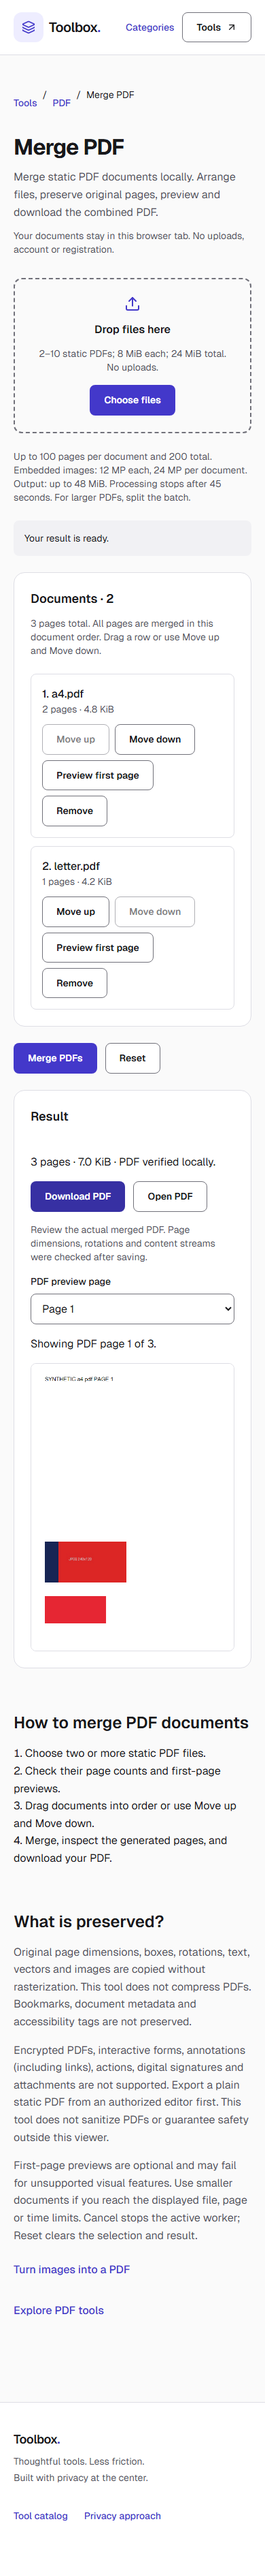
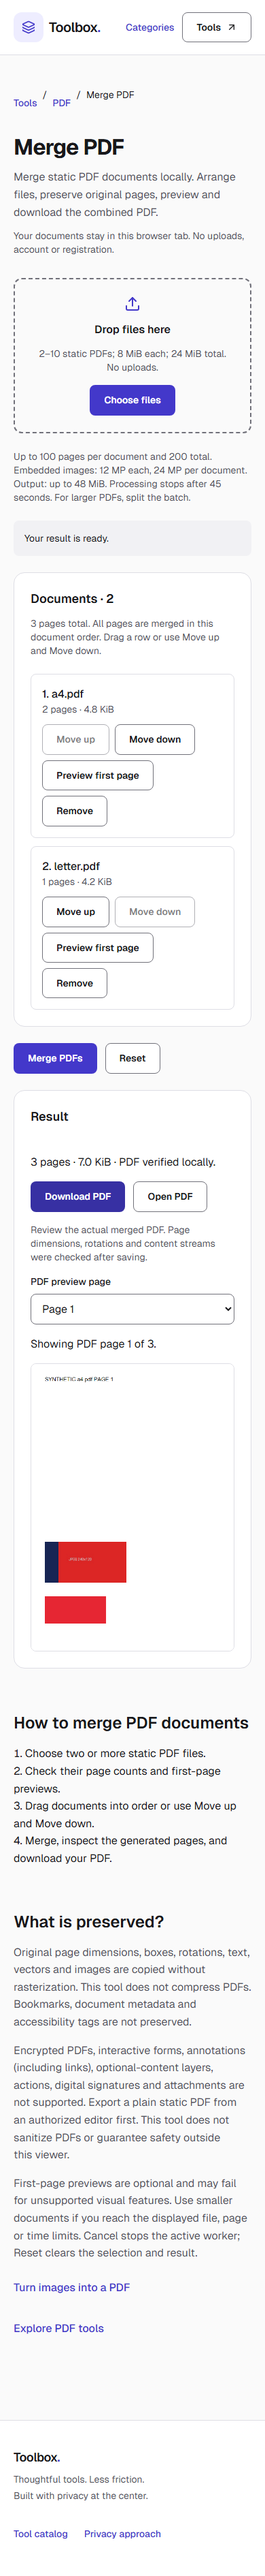
fix: preserve TBX-005 fidelity and stabilize browser checks

diff --git a/apps/web/e2e/merge-pdf.spec.ts b/apps/web/e2e/merge-pdf.spec.ts
@@ -13,6 +13,7 @@ async function select(page: Page, names: string[]) {
   ).toBeVisible();
 }
 async function output(page: Page, info: TestInfo, name: string) {
+  await page.getByRole("button", { name: "Merge PDFs", exact: true }).focus();
   await page.getByRole("button", { name: "Merge PDFs", exact: true }).click();
   await expect(page.getByRole("link", { name: "Download PDF", exact: true })).toBeVisible();
   await expect(page.getByText(/^Showing PDF page 1 of/)).toBeVisible();
@@ -138,6 +139,7 @@ test("invalid, encrypted, active and resource-limited PDFs preserve the valid se
     "link.pdf",
     "form.pdf",
     "launch.pdf",
+    "layers.pdf",
     "large-number.pdf",
     "too-many-pages.pdf",
     "empty-pages.pdf",
@@ -250,13 +252,15 @@ test("desktop/mobile screens, real preview and touch-sized controls", async ({ p
   expect(errors).toEqual([]);
 });
 test("hung worker times out and is terminated with a recoverable error", async ({ page }) => {
-  await page.clock.install();
+  await page.clock.install({ time: new Date("2030-01-01T00:00:00Z") });
   await page.addInitScript(() => {
     const NativeWorker = Worker;
     let terminated = 0;
+    let started = 0;
     window.Worker = class extends NativeWorker {
       override postMessage() {
         /* Fault injection: a worker never answers. */
+        started++;
       }
       override terminate() {
         terminated++;
@@ -264,14 +268,24 @@ test("hung worker times out and is terminated with a recoverable error", async (
       }
     };
     Object.defineProperty(window, "terminatedWorkers", { get: () => terminated });
+    Object.defineProperty(window, "startedWorkers", { get: () => started });
   });
   await page.goto(toolUrl);
+  await page.waitForLoadState("networkidle");
+  await page.clock.pauseAt(new Date("2030-01-01T00:01:00Z"));
   await page.getByLabel("Choose PDFs", { exact: true }).setInputFiles(fixture("letter.pdf"));
+  await expect.poll(() => page.evaluate(() => Reflect.get(window, "startedWorkers"))).toBe(1);
+  await page.clock.runFor(44_999);
   await expect(page.getByText("Checking files…", { exact: true })).toBeVisible();
-  await page.clock.fastForward(45_000);
-  await expect(page.getByRole("main").getByRole("alert")).toContainText("processing time");
+  await expect(page.getByRole("main").getByRole("alert")).toHaveCount(0);
+  expect(await page.evaluate(() => Reflect.get(window, "terminatedWorkers"))).toBe(0);
+  await page.clock.runFor(1);
   expect(await page.evaluate(() => Reflect.get(window, "terminatedWorkers"))).toBe(1);
-  await page.getByRole("button", { name: "Reset", exact: true }).click();
+  // Advance one render frame after asserting termination at the exact deadline.
+  await page.clock.runFor(16);
+  await expect(page.getByRole("main").getByRole("alert")).toContainText("processing time");
+  await page.getByRole("button", { name: "Reset", exact: true }).press("Enter");
+  await page.clock.runFor(16);
   await expect(page.getByRole("heading", { name: "No PDFs selected", exact: true })).toBeVisible();
 });
 test("benchmarks real input/output at three sizes", async ({ page }, info) => {

diff --git a/apps/web/app/tools/merge-pdf/merge-page.tsx b/apps/web/app/tools/merge-pdf/merge-page.tsx
@@ -48,9 +48,10 @@ export function MergePage({ tool }: { tool: ToolDefinition }) {
           accessibility tags are not preserved.
         </p>
         <p className="text-muted-foreground">
-          Encrypted PDFs, interactive forms, annotations (including links), actions, digital
-          signatures and attachments are not supported. Export a plain static PDF from an authorized
-          editor first. This tool does not sanitize PDFs or guarantee safety outside this viewer.
+          Encrypted PDFs, interactive forms, annotations (including links), optional-content layers,
+          actions, digital signatures and attachments are not supported. Export a plain static PDF
+          from an authorized editor first. This tool does not sanitize PDFs or guarantee safety
+          outside this viewer.
         </p>
         <p className="text-muted-foreground">
           First-page previews are optional and may fail for unsupported visual features. Use smaller

diff --git a/packages/core/src/merge-pdf.ts b/packages/core/src/merge-pdf.ts
@@ -27,7 +27,7 @@ const messages: Record<PdfMergeErrorCode, string> = {
   DOCUMENT_PROTECTED:
     "Encrypted PDFs are not supported. Export an unprotected copy using an authorized PDF editor.",
   UNSUPPORTED_FEATURE:
-    "This PDF contains forms, annotations, actions or attachments. Export a plain static PDF first. Signed PDFs are not supported.",
+    "This PDF contains forms, annotations, layers, actions or attachments. Export a plain static PDF first. Signed PDFs are not supported.",
   RESOURCE_LIMIT:
     "This selection exceeds the limits or processing time. Use smaller PDFs or split the batch.",
   CANCELLED: "Operation cancelled. Your selected documents are still available.",

diff --git a/packages/browser-engines/src/merge-pdf.ts b/packages/browser-engines/src/merge-pdf.ts
@@ -34,6 +34,7 @@ const blockedKeys = new Set([
   "RichMediaContent",
   "Collection",
   "ByteRange",
+  "OCProperties",
 ]);
 const blockedNames = new Set([
   "JavaScript",
@@ -51,6 +52,8 @@ const blockedNames = new Set([
   "Filespec",
   "Sig",
   "Action",
+  "OCG",
+  "OCMD",
 ]);
 async function inspectStructure(document: PDFDocument, signal?: AbortSignal) {
   const { PDFArray, PDFDict, PDFName, PDFNumber, PDFRawStream, PDFRef } = await import("pdf-lib");

diff --git a/apps/web/playwright.config.ts b/apps/web/playwright.config.ts
@@ -11,7 +11,8 @@ export default defineConfig({
   },
   projects: [
     { name: "chromium", use: { ...devices["Desktop Chrome"] } },
-    { name: "webkit", use: { ...devices["Desktop Safari"] } },
+    // Large image/PDF fixtures compete for codec/canvas resources in WebKit.
+    { name: "webkit", workers: 1, use: { ...devices["Desktop Safari"] } },
   ],
   webServer: {
     command: "pnpm dev --hostname 127.0.0.1 --port 3100",

diff --git a/packages/browser-engines/test/merge-pdf.test.ts b/packages/browser-engines/test/merge-pdf.test.ts
@@ -61,6 +61,7 @@ it("rejects corrupt, encrypted, active, empty and excessive-page PDFs safely", a
     ["link.pdf", "UNSUPPORTED_FEATURE"],
     ["form.pdf", "UNSUPPORTED_FEATURE"],
     ["launch.pdf", "UNSUPPORTED_FEATURE"],
+    ["layers.pdf", "UNSUPPORTED_FEATURE"],
   ]) {
     if (!name) throw Error("Missing fixture");
     await expect(inspectPdfs([fixture(name)])).rejects.toMatchObject({ code });

diff --git a/apps/web/e2e/fixtures/create-pdfs.py b/apps/web/e2e/fixtures/create-pdfs.py
@@ -6,7 +6,7 @@ from reportlab import rl_config
 from reportlab.lib.pagesizes import A4, letter, landscape
 from reportlab.lib.utils import ImageReader
 from pypdf import PdfReader, PdfWriter
-from pypdf.generic import DictionaryObject, NameObject, TextStringObject, ArrayObject, NumberObject
+from pypdf.generic import DictionaryObject, NameObject, TextStringObject, ArrayObject, NumberObject, DecodedStreamObject
 
 root = Path(__file__).parent / "pdfs"
 rl_config.useA85 = 0
@@ -49,6 +49,15 @@ writer.write(root / "form.pdf")
 writer = PdfWriter(clone_from=root / "letter.pdf")
 writer._root_object[NameObject("/OpenAction")] = DictionaryObject({NameObject("/S"):NameObject("/Launch"),NameObject("/F"):TextStringObject("synthetic.exe")})
 writer.write(root / "launch.pdf")
+writer = PdfWriter(clone_from=root / "letter.pdf")
+group = writer._add_object(DictionaryObject({NameObject("/Type"):NameObject("/OCG"),NameObject("/Name"):TextStringObject("Synthetic hidden layer")}))
+writer._root_object[NameObject("/OCProperties")] = DictionaryObject({NameObject("/OCGs"):ArrayObject([group]),NameObject("/D"):DictionaryObject({NameObject("/BaseState"):NameObject("/OFF"),NameObject("/OFF"):ArrayObject([group]),NameObject("/Order"):ArrayObject([group])})})
+page = writer.pages[0]
+page["/Resources"].get_object()[NameObject("/Properties")] = DictionaryObject({NameObject("/SyntheticLayer"):group})
+stream = DecodedStreamObject()
+stream.set_data(b"/OC /SyntheticLayer BDC\n" + page.get_contents().get_data() + b"\nEMC\n")
+page[NameObject("/Contents")] = writer._add_object(stream)
+writer.write(root / "layers.pdf")
 writer = PdfWriter(clone_from=root / "letter.pdf")
 writer._root_object[NameObject("/SyntheticHugeNumber")] = NumberObject(123456789012345678901234567890)
 writer.write(root / "large-number.pdf")

diff --git a/docs/development/TBX-005-REPORT.md b/docs/development/TBX-005-REPORT.md
@@ -32,6 +32,8 @@ A decoded 12 MP image costs about 48 MB for one RGBA buffer, before decoder/rend
 
 No sanitization or external-reader safety is claimed. Bookmarks, metadata and accessibility structure are not preserved. Signed/interactive PDFs must first be exported as authorized plain static documents; there is no silent flattening or rasterization fallback.
 
[1 lines of base64/hex data omitted]
+
 ## Dependencies and tooling
 
 No package or lockfile changes. Reuse pinned pdf-lib 1.17.1 (MIT) for non-rasterizing page copying and pdfjs-dist 6.3.289 (Apache-2.0) for actual local previews. The writer loads on inspection/conversion; the viewer loads on preview. Both are hosted locally. Existing installed sizes/alternatives are recorded in [TBX-004](TBX-004-REPORT.md); pdf-lib's older release and the substantial PDF.js preview download remain maintenance/transfer risks. Native viewer-only previews are inconsistent across tested profiles, while rasterization would destroy required fidelity.
@@ -47,12 +49,14 @@ Independent verification uses the already bundled Python pypdf/PDFium tools, not
 | `pnpm install --frozen-lockfile` | Passed; lockfile unchanged, supply-chain policy check passed |
 | `pnpm lint` | Passed; final 112 source/test/evidence files |
 | `pnpm typecheck` | Passed; six workspaces, including Next route type generation |
-| `pnpm test` | Passed; 39 unit/integration tests in 12 files, 58 Chromium/WebKit scenarios in 2.3 minutes |
-| `pnpm build` | Passed; API and optimized Next build, web compilation 956 ms on warm cache |
-| Standalone production converter suite | Passed; all 30 Images/Merge Chromium/WebKit scenarios in 1.4 minutes |
+| `pnpm test` | Passed; 39 unit/integration tests in 12 files, 58 Chromium/WebKit scenarios in 3.9 minutes |
+| `pnpm build` | Passed; API and optimized Next build with both real public tool pages |
+| Standalone production converter suite | Passed; all 30 Images/Merge Chromium/WebKit scenarios in 2.1 minutes |
 | Independent pypdf/PDFium verification | Passed; all three original/output page bitmap hashes match |
 
-The final public-route gates were rerun after correcting preview of validated PDFs with empty MIME. Production ran the built standalone server with copied local static assets, not `next dev`. Its converter suite includes all 16 existing Images to PDF scenarios and 14 new Merge PDF scenarios. No tests, lint rules or type checks were disabled. GitHub `validate` on the pushed implementation commit is linked in the shared PR's completion entry.
+The public-route gates were rerun after correcting preview of validated PDFs with empty MIME. Production ran the built standalone server with copied local static assets, not `next dev`. Its converter suite includes all 16 existing Images to PDF scenarios and 14 new Merge PDF scenarios. No tests, lint rules or type checks were disabled. GitHub `validate` on the pushed verification head is linked in the shared PR's completion entry.
+
+The initial implementation CI passed. An automatic second run after editing the PR exposed one Chromium clock-test failure (57/58): after a single virtual-time jump, the test did not observe the watchdog UI. The deadline test now waits for initial page loading, pauses the clock before selection, observes worker dispatch, runs every timer callback, asserts no termination at 44,999 ms and termination at exactly 45,000 ms, then advances one rendering frame before checking the error UI. This follows [Playwright Clock guidance](https://playwright.dev/docs/clock). The stronger assertions use the original timeouts and no retries. Processing/runtime code did not change. Repeated Chromium/WebKit checks and the final full gates verify the correction.
 
 The retained Chromium ordered download is 7,191 bytes and three pages: rotated Letter MediaBox 612 × 792 pt / CropBox (12,20)–(580,760), rotation 90°; A4 portrait 595.2756 × 841.8898 pt; A4 landscape 841.8898 × 595.2756 pt. Its SHA-256 and independent bitmap hashes are in the comparison JSON.
 
@@ -64,17 +68,21 @@ Independent pypdf checks exact text, content operators, boxes and rotation of th
 
 Screenshots: [Chromium desktop](../evidence/tbx-005/chromium-merge-1440.png), [Chromium mobile](../evidence/tbx-005/chromium-merge-390.png), [WebKit desktop](../evidence/tbx-005/webkit-merge-1440.png), [WebKit mobile](../evidence/tbx-005/webkit-merge-390.png). All were visually reviewed. The [production audit](../evidence/tbx-005/production-assets.json) verifies canonicals, both published tools, draft/private 404s and no PDF library download on the homepage.
 
+The strengthened deadline test passed 20 diagnostic repeats (10 per browser). A later full local run exposed two five-second preview waits on large WebKit retry PDFs; the trace showed verified downloads, with one preview completing immediately after the assertion expired. To bound test CPU/memory pressure, the WebKit project now uses one worker while Chromium retains two. No assertion, fixture size, timeout or retry was relaxed. These are isolated browser fixture jobs, not a claim that two simultaneous large-document tabs meet a five-second preview budget. The final required gates and standalone checks were repeated after this resource setting.
+
+A separate WebKit pointer action stalled after the drag/add/preview sequence before conversion started. The merge-output test helper now explicitly focuses the button before its real pointer click; visibility/stability checks and download assertions remain unchanged. That sequence passed ten WebKit diagnostic repeats. This restores explicit focus after the programmatic file-picker sequence without a forced click or synthetic processing delay.
+
 ## Performance and memory
 
-| Embedded JPEG + Letter PDF | Total input bytes | Output bytes (both browsers) | Chromium elapsed | WebKit elapsed |
+| Embedded JPEG + Letter PDF | Total input bytes | Output bytes Chromium / WebKit | Chromium elapsed | WebKit elapsed |
 | --- | --- | --- | --- | --- |
-| 800 × 600, 0.48 MP | 295,625 | 293,962 | 779 ms | 1,003 ms |
-| 2000 × 1500, 3 MP | 1,813,611 | 1,811,947 | 1,457 ms | 1,551 ms |
-| 4000 × 3000, 12 MP | 7,220,942 | 7,219,280 | 2,698 ms | 4,858 ms |
+| 800 × 600, 0.48 MP | 295,625 | 293,961 / 293,961 | 1,133 ms | 1,084 ms |
+| 2000 × 1500, 3 MP | 1,813,611 | 1,811,947 / 1,811,946 | 1,665 ms | 2,311 ms |
+| 4000 × 3000, 12 MP | 7,220,942 | 7,219,279 / 7,219,279 | 3,805 ms | 5,257 ms |
 
-Chromium reported 12,700,000 bytes of main-realm JS heap after each run; the coarse identical readings cannot establish peak usage or absence of leaks. WebKit recorded null. The output reductions here are small document serialization differences, not image recompression. The preserved source image streams are checked directly.
+Chromium reported 10,600,000 bytes of main-realm JS heap after each run; the coarse identical readings cannot establish peak usage or absence of leaks. WebKit recorded null. The output reductions here are small document serialization differences, not image recompression. The preserved source image streams are checked directly.
 
-Windows machine, pinned Playwright 1.64.0, standalone production, two test workers. Each datum is one run without CPU throttling; not a percentile or physical-mobile benchmark. Inputs are existing deterministic noisy JPEGs embedded in actual PDFs, plus Letter text/vector/image PDF. Timing begins after selection/inspection and includes merge, serialized verification, first-page rendering, download and parsing. Original image streams remain unchanged; PDF compression is not promised. Repeat operations preserve semantics, but timestamps may vary binary hashes.
+Windows machine, pinned Playwright 1.64.0, standalone production, two global test workers with WebKit limited to one. Each datum is one run without CPU throttling; not a percentile or physical-mobile benchmark. Inputs are existing deterministic noisy JPEGs embedded in actual PDFs, plus Letter text/vector/image PDF. Timing begins after selection/inspection and includes merge, serialized verification, first-page rendering, download and parsing. Original image streams remain unchanged; PDF compression is not promised. Repeat operations preserve semantics, but timestamps may vary binary hashes.
 
 The reported Chromium `performance.memory.usedJSHeapSize` is main-realm heap after completion; it excludes conversion/preview workers, native codecs/canvases and peak allocations. WebKit exposes no corresponding value and records null. Resource lifecycle tests assert zero outstanding tracked Blob URLs and native workers after reset/navigation/cancellation; they do not establish a mobile memory peak. Raw [Chromium](../evidence/tbx-005/chromium-performance.json) and [WebKit](../evidence/tbx-005/webkit-performance.json) measurements retain these limitations.
 

diff --git a/docs/decisions/ADR-0007-merge-pdf.md b/docs/decisions/ADR-0007-merge-pdf.md
@@ -18,6 +18,8 @@ Resource bounds: 1–10 files during selection, at least 2 for merge; 8 MiB each
 
 A 12 MP decoded image alone is about 48 MB RGBA. 24 MiB input can create multiple input/output/parser copies; compressed bytes do not bound expanded object/font streams. Object budgets are checked after library parsing, so adversarial decompression can allocate before inspection. Browser workers offer cancellation/isolation but no enforceable heap quota. The 45-second wall-clock watchdog terminates stuck jobs; user Cancel/reset/unmount terminates earlier. Mobile ceilings are conservative best effort, not proof against every malicious memory bomb or low-memory tab kill. Physical device validation and deeper parser fuzzing remain risks, not implicit backend authorization.
 
+Optional-content layers are refused via OCProperties/OCG/OCMD. A real hidden-layer fixture and independent PDFium probe showed that copying page resources without the document-level visibility configuration changes the render (hidden content becomes visible). Combining those configurations is outside this focused tool; users must export a plain static PDF first.
+
 ## Recovery and privacy
 
 Atomic reinspection before adding files preserves a prior valid selection on failure. Cancel leaves the selection for retry; reset clears it. Conversion completion/error/timeout/reset/unmount terminate the active worker, release buffers with its realm and invalidate stale callbacks. Result Blob URLs revoke on changes/reset/unmount. Preview destroys its PDF document/worker after each page; large-file cleanup and active-worker counts are tested. Errors expose fixed categories/messages only. pdf-lib's ES5 error subclass prototype is inconsistent; encrypted errors also match its fixed library message, verified by an actual encrypted fixture.

diff --git a/docs/08-QUALITY-GATES.md b/docs/08-QUALITY-GATES.md
@@ -47,4 +47,4 @@ Chromium and WebKit tests exercise the public `/tools/images-to-pdf` route: mixe
 
 ## Merge PDF automation (TBX-005)
 
-Core/contracts enforce file/page/output bounds and immutable order. Engine tests cover real text/vector/image PDFs, mixed page geometry, rotations, corruption, encryption, active features, external streams, image bounds and generated PNG alpha masks. Chromium/WebKit exercise ordering, download parsing, preview, keyboard/touch, failure, hard worker cancellation, reset/retry, stale results, resource cleanup and watchdog expiry. Publication checks now require exactly Images to PDF and Merge PDF, with the other 13 tools draft. Separate standalone production tests and independent pypdf/PDFium comparisons are recorded in [TBX-005 report](development/TBX-005-REPORT.md).
+Core/contracts enforce file/page/output bounds and immutable order. Engine tests cover real text/vector/image PDFs, mixed page geometry, rotations, corruption, encryption, active features, external streams, image bounds and generated PNG alpha masks. Chromium/WebKit exercise ordering, download parsing, preview, keyboard/touch, failure, hard worker cancellation, reset/retry, stale results, resource cleanup and watchdog expiry. Publication checks now require exactly Images to PDF and Merge PDF, with the other 13 tools draft. Two global test workers remain available, but WebKit uses one: large fixture previews otherwise compete for CPU/memory and codec/canvas resources. Assertions/timeouts are unchanged. Separate standalone production tests and independent pypdf/PDFium comparisons are recorded in [TBX-005 report](development/TBX-005-REPORT.md).
